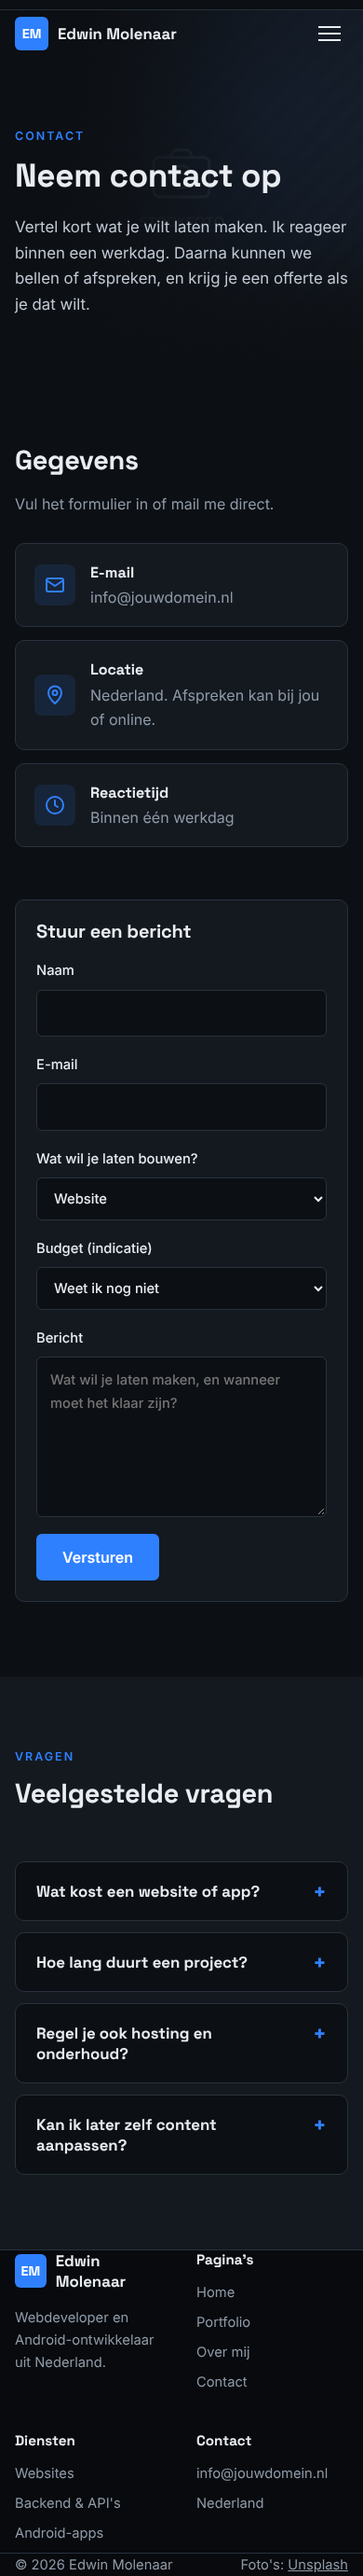
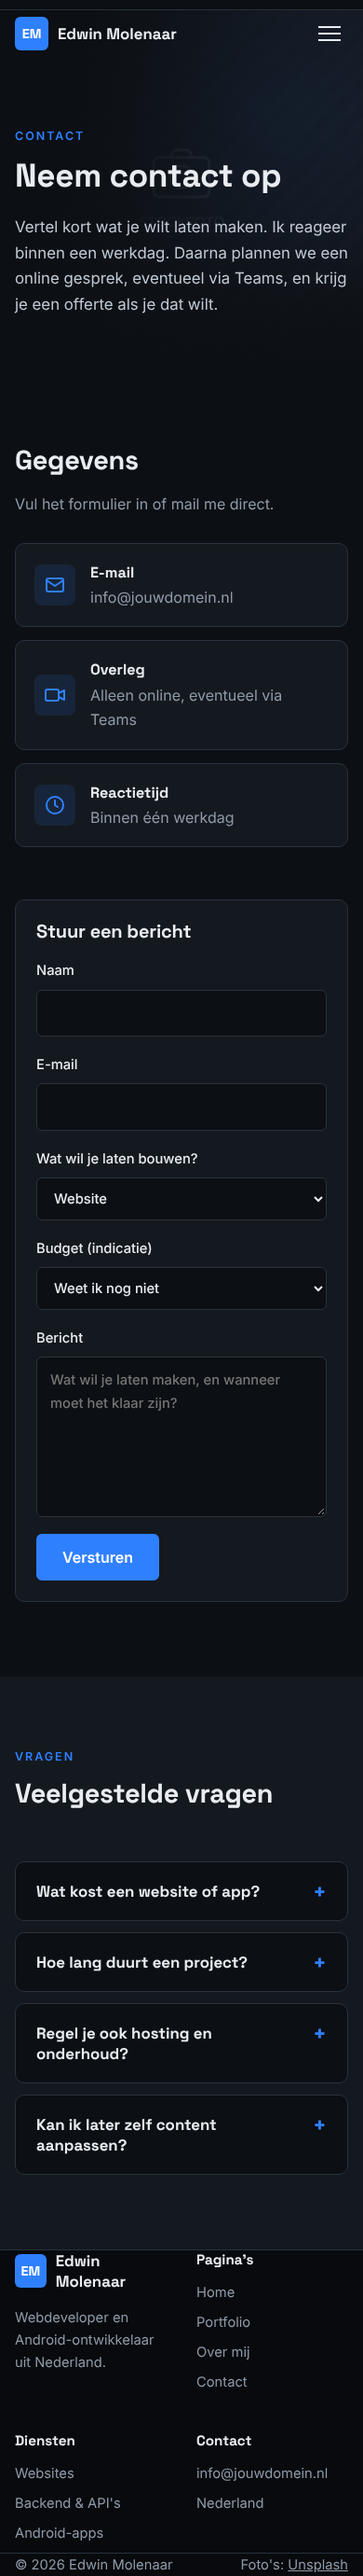
Make clear that meetings are online only, optionally via Teams
Claude-Session: https://claude.ai/code/session_01BR2aM2KyyCs7b3zr3d6H45

diff --git a/contact.html b/contact.html
@@ -34,7 +34,7 @@
       <div class="container hero-content">
         <p class="eyebrow">Contact</p>
         <h1>Neem contact op</h1>
-        <p class="lead">Vertel kort wat je wilt laten maken. Ik reageer binnen een werkdag. Daarna kunnen we bellen of afspreken, en krijg je een offerte als je dat wilt.</p>
+        <p class="lead">Vertel kort wat je wilt laten maken. Ik reageer binnen een werkdag. Daarna plannen we een online gesprek, eventueel via Teams, en krijg je een offerte als je dat wilt.</p>
       </div>
     </section>
 
@@ -49,8 +49,8 @@
               <div><strong>E-mail</strong><a href="mailto:info@jouwdomein.nl">info@jouwdomein.nl</a></div>
             </li>
             <li>
-              <svg viewBox="0 0 24 24"><path d="M12 21s-7-6.2-7-11.5A7 7 0 0 1 19 9.5C19 14.8 12 21 12 21z"/><circle cx="12" cy="9.5" r="2.5"/></svg>
-              <div><strong>Locatie</strong><span>Nederland. Afspreken kan bij jou of online.</span></div>
+              <svg viewBox="0 0 24 24"><rect x="2" y="6" width="14" height="12" rx="2"/><path d="m16 10 6-3v10l-6-3"/></svg>
+              <div><strong>Overleg</strong><span>Alleen online, eventueel via Teams</span></div>
             </li>
             <li>
               <svg viewBox="0 0 24 24"><circle cx="12" cy="12" r="9"/><path d="M12 7v5l3 2"/></svg>

diff --git a/index.html b/index.html
@@ -43,7 +43,7 @@
         <ul class="hero-facts">
           <li>Reactie binnen een werkdag</li>
           <li>Vaste prijs per project</li>
-          <li>Op locatie of online</li>
+          <li>Overleg online, eventueel via Teams</li>
         </ul>
       </div>
     </section>
